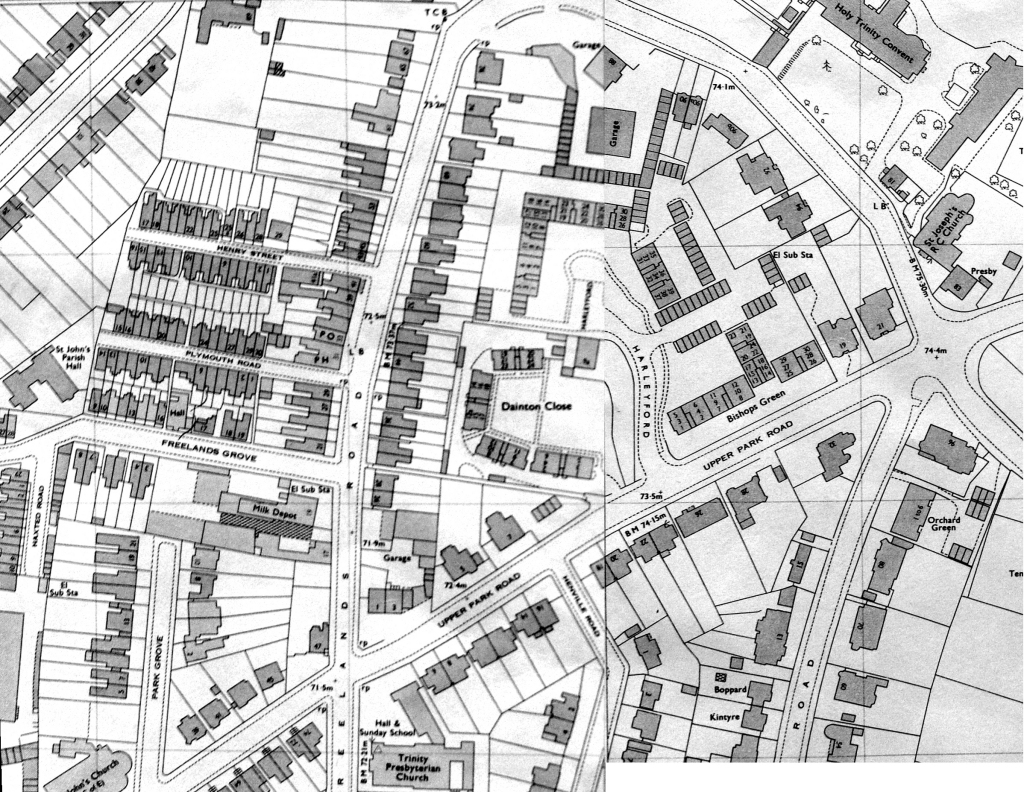
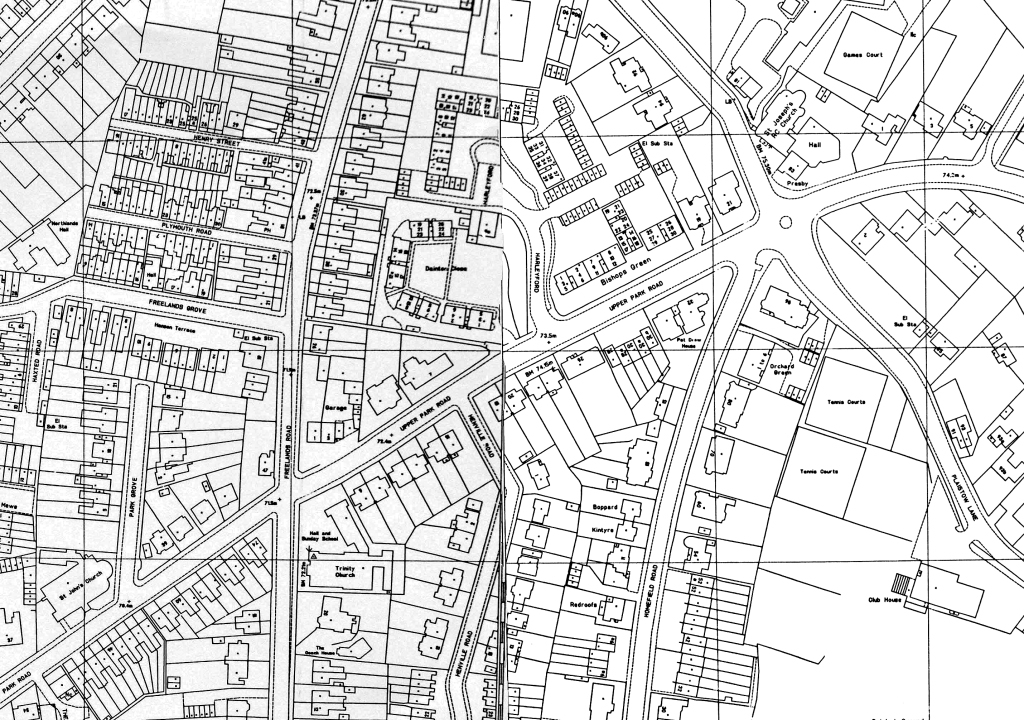
Add files via upload

diff --git a/1971_map.html b/1971_map.html
@@ -1,0 +1,57 @@
+<!DOCTYPE html>
+
+<html>
+
+<head>
+<meta name="robots" content="NOINDEX,NOFOLLOW">
+<title>Harleyford</title>
+<meta http-equiv="Content-Type" content="text/html; charset=windows-1252">
+<meta name="viewport" content="width=device-width, initial-scale=1.0, user-scalable=no">
+</head>
+
+<body style="background-color: rgb(242, 233, 214); background-image: url('bg3.jpg')">
+
+<div align="center">
+  <center>
+  <table border="0" cellpadding="0" cellspacing="0" width="80%">
+    <tr>
+      <td width="15%" valign="middle" align="left"></td>
+      <td width="70%" valign="middle" align="center"><u><font size="6" color=#800000>1971 map</font></u></td>
+      <td width="15%" valign="middle" align="right"><a href="./index1.html"><font size="4" color="#0000FF"><b><i>HOME</i></b></font></a></td>
+    </tr>
+  </table>
+  </center>
+</div>
+<p align="center"><br>
+<br>
+<a href="./index1.html"><img border="0" src="1971_map.jpg" width="1021" height="520"></a></p>
+
+<div align="center">
+  <center>
+  <table border="0" cellpadding="0" cellspacing="0" width="80%">
+    <tr>
+      <td width="100%" valign="top" align="left"><font color=#400000>
+        <p align="left"><font size="5"><br>
+<u>A map is a "snapshot" of a moment in history</u>:</font></p>
+        <p align="left"><font size="4">Dainton manor house has been demolished
+        and is replaced with the apartments marked "Dainton Close".</font></p>
+        <p align="left"><font size="4">Harleyford manor house has followed the
+        same fate and is replaced with the apartments marked "Harleyford".</font></p>
+        <p align="left"><font size="4">On the north side of Upper Park Road,
+        starting from the junction with Plaistow lane, there are two houses.<br>
+        The first of these was demolished in recent times and was replaced with
+        an apartment block.<br>
+        The second is a fine old Victorian house, still standing (in 2015).<br>
+        The construction of the apartments (in Upper Park Road) marked "Bishops Green"
+        is now complete.</font></font></td>
+    </tr>
+  </table>
+  </center>
+</div>
+<p align="center"><br>
+<a href="./index1.html"><font size="4" color="0000FF"><b><i>HOME</i></b></font></a></p>
+<p align="center">&nbsp;</p>
+
+</body>
+
+</html>
